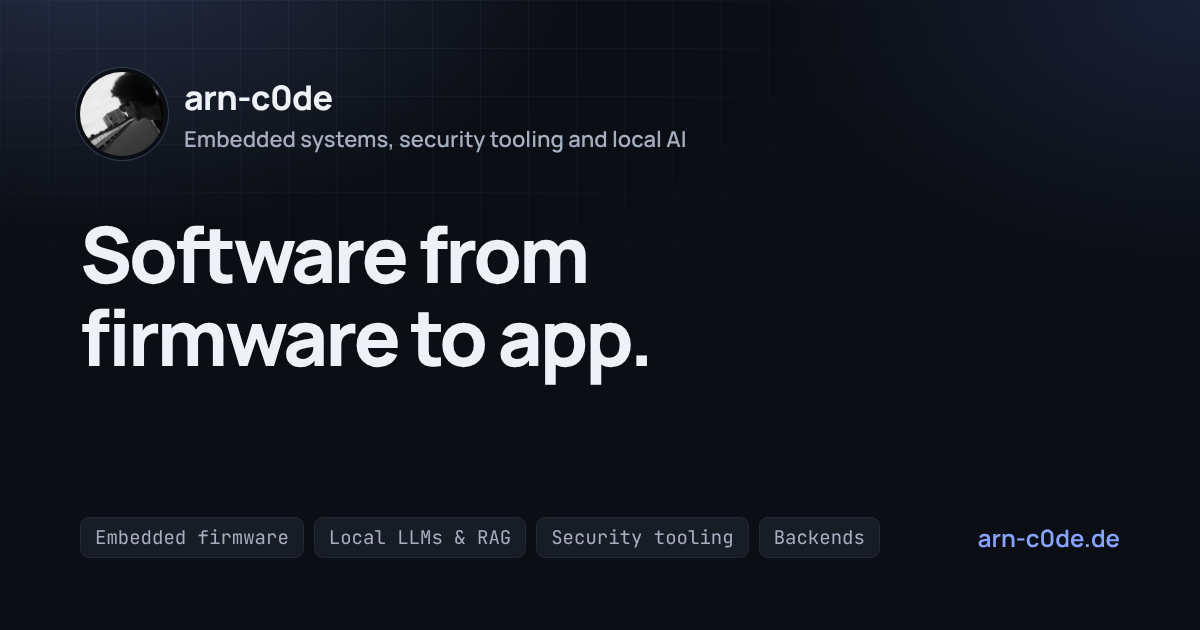
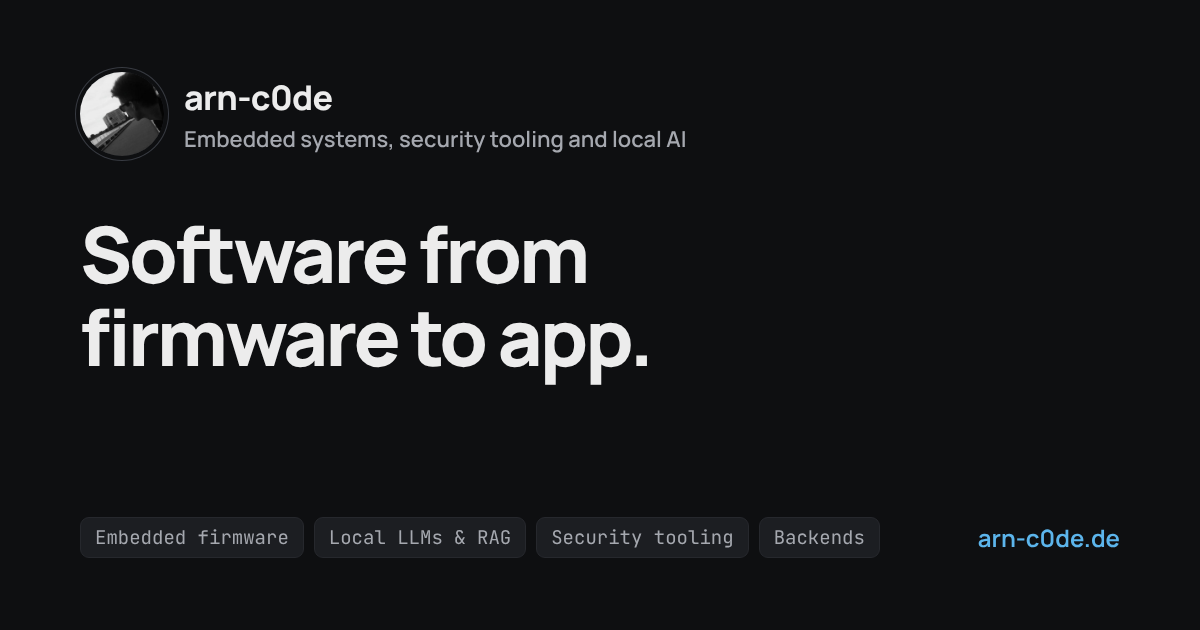
Calmer, more distinctive colour and surface system
- Palette: warm paper neutrals in light mode, neutral graphite in dark
  mode (no blue cast in the greys); one accent taken from the blue of
  the QLink mark, deepened for contrast on white. Text, muted, faint,
  accent, success and warning all checked at 4.5:1 or better
- Restraint layer: no background glows or grid, no gradients on
  panels, the hero stands on the page instead of in a card, panels are
  separated by hairline edges rather than shadows, nothing lifts or
  zooms on hover, icons sit plain instead of in tinted squares, the
  selected tab is set in ink, the in-progress timeline card gets a
  single accent edge
- Smaller radii (12/10/7 px)
- The cursor-following light on project cards is removed, CSS and JS
- Browser theme colour, web manifest and the social preview card use
  the new palette

Changed region(s): [[0.0, 0.0, 0.3083, 0.181], [0.8633, 0.0, 1.0, 0.181], [0.8017, 0.8444, 0.925, 0.8746]]

diff --git a/app/globals.css b/app/globals.css
@@ -29,9 +29,9 @@
   --sp-7: 48px;
   --sp-8: 64px;
 
-  --radius-lg: 16px;
-  --radius: 12px;
-  --radius-sm: 9px;
+  --radius-lg: 12px;
+  --radius: 10px;
+  --radius-sm: 7px;
   --shell-max: 1160px;
   --gutter: 24px;
 
@@ -41,38 +41,42 @@
      rather than bouncy. */
   --spring: cubic-bezier(0.34, 1.3, 0.64, 1);
 
-  --bg: light-dark(#f7f8fa, #0b0e14);
-  --bg-panel: light-dark(#ffffff, #12161f);
-  --bg-inset: light-dark(#f2f4f7, #171c26);
-  --bg-hover: light-dark(#eceff3, #1d2330);
-  --border: light-dark(#e3e6eb, #222936);
-  --border-strong: light-dark(#cdd2da, #333c4c);
-  --text: light-dark(#0e1422, #eef1f6);
-  --text-muted: light-dark(#4a5466, #a6afc0);
-  --text-faint: light-dark(#687285, #7f899b);
-  --accent: light-dark(#2d55d8, #86a3ff);
-  --accent-2: light-dark(#1f3fa8, #5f80ea);
-  --accent-soft: light-dark(#edf1fd, #182037);
-  --accent-text: light-dark(#ffffff, #0b0e14);
+  /* Warm paper in the light theme, neutral graphite in the dark one — no
+     blue tint in the greys. The one accent is the blue of the QLink mark,
+     deepened in light mode to stay readable on white. */
+  --bg: light-dark(#f6f5f1, #0e0f11);
+  --bg-panel: light-dark(#ffffff, #16181b);
+  --bg-inset: light-dark(#f0eee9, #1c1e22);
+  --bg-hover: light-dark(#e9e6df, #222428);
+  --border: light-dark(#e2dfd7, #26282d);
+  --border-strong: light-dark(#cbc6bb, #383b42);
+  --text: light-dark(#17181c, #ececec);
+  --text-muted: light-dark(#4c4f57, #a5a8af);
+  --text-faint: light-dark(#66696f, #878a91);
+  --accent: light-dark(#0a6aab, #5cb5ec);
+  --accent-2: light-dark(#08578d, #3f9fdb);
+  --accent-soft: light-dark(#e7f0f6, #13212b);
+  --accent-text: light-dark(#ffffff, #0e0f11);
   /* The primary action is ink, not a second blue: one strong button style,
      with the accent left to links, selection and active states. */
-  --ink: light-dark(#0e1422, #eef1f6);
-  --ink-hover: light-dark(#262e40, #ffffff);
-  --ink-text: light-dark(#ffffff, #0b0e14);
+  --ink: light-dark(#17181c, #ececec);
+  --ink-hover: light-dark(#2c2e34, #ffffff);
+  --ink-text: light-dark(#ffffff, #0e0f11);
   --request: var(--ink);
   --request-hover: var(--ink-hover);
   --request-soft: var(--accent-soft);
   --request-text: var(--ink-text);
-  --success: light-dark(#1a8a4a, #4cc38a);
-  --star: light-dark(#b7791f, #e3b341);
-  --warn: light-dark(#a16207, #e3b341);
+  --success: light-dark(#2b7a4b, #5cc28e);
+  --star: light-dark(#b0761b, #e0a84a);
+  --warn: light-dark(#9a5800, #e0a84a);
   --grid-line: light-dark(rgba(14, 20, 34, 0.045), rgba(160, 175, 255, 0.05));
-  --shadow-color: light-dark(rgba(14, 20, 34, 0.07), rgba(0, 0, 0, 0.45));
-  --shadow-color-strong: light-dark(rgba(14, 20, 34, 0.16), rgba(0, 0, 0, 0.6));
-  --shadow-sm: 0 1px 2px var(--shadow-color);
-  --shadow-md: 0 1px 2px var(--shadow-color), 0 6px 20px var(--shadow-color);
+  --shadow-color: light-dark(rgba(23, 24, 28, 0.06), rgba(0, 0, 0, 0.4));
+  --shadow-color-strong: light-dark(rgba(23, 24, 28, 0.14), rgba(0, 0, 0, 0.6));
+  /* Edges do the separating; shadows only for what floats (menus, dialogs). */
+  --shadow-sm: 0 0 0 transparent;
+  --shadow-md: 0 2px 10px var(--shadow-color);
   --shadow-lg: 0 2px 6px var(--shadow-color), 0 24px 64px var(--shadow-color-strong);
-  --scrim: light-dark(rgba(14, 20, 34, 0.36), rgba(3, 4, 10, 0.66));
+  --scrim: light-dark(rgba(23, 24, 28, 0.4), rgba(0, 0, 0, 0.66));
 }
 
 :root[data-theme='light'] {
@@ -3452,35 +3456,6 @@ a:hover {
   height: 22px;
 }
 
-/* A light that follows the cursor across a card. The coordinates come from
-   the pointer handler in ProjectCard; the layer sits under the text. */
-
-.card::after {
-  content: '';
-  position: absolute;
-  inset: 0;
-  z-index: 0;
-  opacity: 0;
-  pointer-events: none;
-  background: radial-gradient(
-    190px circle at var(--mx, 50%) var(--my, 50%),
-    color-mix(in srgb, var(--accent) 13%, transparent),
-    transparent 72%
-  );
-  transition: opacity 0.3s var(--ease);
-}
-
-.card > * {
-  position: relative;
-  z-index: 1;
-}
-
-@media (hover: hover) {
-  .card:hover::after {
-    opacity: 1;
-  }
-}
-
 /* Theme toggle: the icon spins in, and the new palette is wiped over the old
    one from the button outwards (see ThemeToggle). */
 
@@ -6763,4 +6738,191 @@ p {
   width: 28px;
   height: 28px;
   border-radius: 7px;
+}
+
+/* ── Restraint ──────────────────────────────────────────────────────────── */
+
+/* The last word on decoration. Edges separate, colour marks only what is
+   active or clickable, and nothing jumps when the pointer passes over it:
+   no glows behind the page, no grid, no gradients on panels, no lifting
+   cards. The hero stands on the page itself instead of in another box. */
+
+body::before,
+body::after {
+  display: none;
+}
+
+.topbar {
+  background: color-mix(in srgb, var(--bg) 92%, transparent);
+}
+
+.topbar__progress {
+  background: var(--accent);
+  height: 2px;
+}
+
+/* Tabs: a quiet segmented control; the selected tab is set in ink, not blue. */
+.tabs {
+  background: transparent;
+  border-color: var(--border);
+}
+
+.tabs__pill {
+  background: color-mix(in srgb, var(--text) 8%, transparent);
+  border-color: transparent;
+  box-shadow: none;
+}
+
+.tab[aria-selected='true'] .tab__icon {
+  color: var(--text);
+  transform: none;
+}
+
+/* Hero: no card, no gradient. */
+.hero {
+  padding: 28px 0 8px;
+  background: none;
+  border: 0;
+  border-radius: 0;
+  box-shadow: none;
+  gap: 56px;
+}
+
+.hero__name {
+  font-weight: 720;
+  letter-spacing: -0.035em;
+}
+
+.hero__avatar {
+  box-shadow: none;
+  border: 1px solid var(--border);
+}
+
+.now {
+  background: var(--bg-panel);
+}
+
+.now__label,
+.tl-entry--now .tl-when {
+  color: var(--text-muted);
+}
+
+.now__label::before {
+  background: var(--accent);
+}
+
+/* Panels: a hairline edge, no shadow at rest. */
+.card,
+.tile,
+.latest__item,
+.metrics,
+.channel,
+.fact,
+.key,
+.reasons,
+.slab,
+.tl-card,
+.worklist,
+.bar__row,
+.domain-card,
+.chart,
+.langs__ring {
+  box-shadow: none;
+}
+
+/* Hover says "clickable" with the edge alone. */
+.card:hover,
+.tile:hover,
+.latest__item:hover,
+.channel:hover,
+.bar__row:hover,
+.domain-card:hover,
+.cloud__tag:hover,
+.chip:hover,
+.btn:hover,
+.iconbtn:hover,
+.rq-type:hover,
+.socials--pills .socials__link:hover,
+.help__cta:hover {
+  transform: none;
+}
+
+.card:hover,
+.tile:hover,
+.latest__item:hover {
+  border-color: var(--border-strong);
+  box-shadow: none;
+}
+
+.latest__item:hover .latest__media img,
+.tl-figure__zoom:hover img {
+  transform: none;
+}
+
+.card--featured,
+.tl-entry--now .tl-card {
+  border-color: var(--border);
+}
+
+.tl-entry--now .tl-card {
+  border-left: 2px solid var(--accent);
+}
+
+/* Icons sit plain, not in tinted squares. */
+.tile__icon {
+  background: none;
+  border: 1px solid var(--border);
+  color: var(--text-muted);
+}
+
+.card__icon--mono,
+.panel__icon--mono {
+  background: var(--bg-inset);
+  border-color: var(--border);
+  color: var(--text-muted);
+}
+
+/* Buttons: flat. */
+.btn,
+.iconbtn,
+.search input,
+.select,
+.modal .input,
+.rq-type,
+.socials--pills .socials__link,
+.modal .request-more {
+  box-shadow: none;
+}
+
+.btn--primary,
+.btn--request,
+.btn--primary:hover,
+.btn--request:hover {
+  box-shadow: none;
+}
+
+.chip[aria-pressed='true'] {
+  box-shadow: none;
+}
+
+/* Media placeholders: neutral, not a blue glow. */
+.latest__media,
+.tl-video__facade {
+  background: var(--bg-inset);
+}
+
+.tl-video__facade {
+  background: linear-gradient(160deg, #1d2025, #0e0f11);
+}
+
+.footer {
+  background: none;
+}
+
+/* Text links and accents read as one blue. */
+.slab__link,
+.tile__link,
+.tl-link,
+.keyfold summary {
+  color: var(--accent);
 }

diff --git a/components/ProjectCard.tsx b/components/ProjectCard.tsx
@@ -41,23 +41,12 @@ export default function ProjectCard({
   const extra = project.topics.length - topics.length
   const badge = showFeaturedBadge && project.featured
 
-  // A soft light follows the cursor across the card. Written straight to the
-  // element's own custom properties, so only the card under the pointer does
-  // any work and React never re-renders for it.
-  function trackPointer(event: React.PointerEvent<HTMLButtonElement>) {
-    const card = event.currentTarget
-    const box = card.getBoundingClientRect()
-    card.style.setProperty('--mx', `${event.clientX - box.left}px`)
-    card.style.setProperty('--my', `${event.clientY - box.top}px`)
-  }
-
   return (
     <button
       type="button"
       className={`card${badge ? ' card--featured' : ''}`}
       style={{ '--i': index } as React.CSSProperties}
       data-reveal
-      onPointerMove={trackPointer}
       onClick={() => onOpen(project.name)}
       aria-label={t('Open details for {name}', { name: project.title })}
     >

diff --git a/app/manifest.ts b/app/manifest.ts
@@ -14,8 +14,8 @@ export default function manifest(): MetadataRoute.Manifest {
     start_url: asset('/'),
     scope: asset('/'),
     display: 'standalone',
-    background_color: '#0a0c10',
-    theme_color: '#0a0c10',
+    background_color: '#0e0f11',
+    theme_color: '#0e0f11',
     icons: [
       { src: asset('/icon-192.png'), sizes: '192x192', type: 'image/png', purpose: 'any' },
       { src: asset('/icon-512.png'), sizes: '512x512', type: 'image/png', purpose: 'any' },

diff --git a/app/layout.tsx b/app/layout.tsx
@@ -61,8 +61,8 @@ export const metadata: Metadata = {
 
 export const viewport: Viewport = {
   themeColor: [
-    { media: '(prefers-color-scheme: light)', color: '#f7f8fa' },
-    { media: '(prefers-color-scheme: dark)', color: '#0a0c10' },
+    { media: '(prefers-color-scheme: light)', color: '#f6f5f1' },
+    { media: '(prefers-color-scheme: dark)', color: '#0e0f11' },
   ],
   width: 'device-width',
   initialScale: 1,
